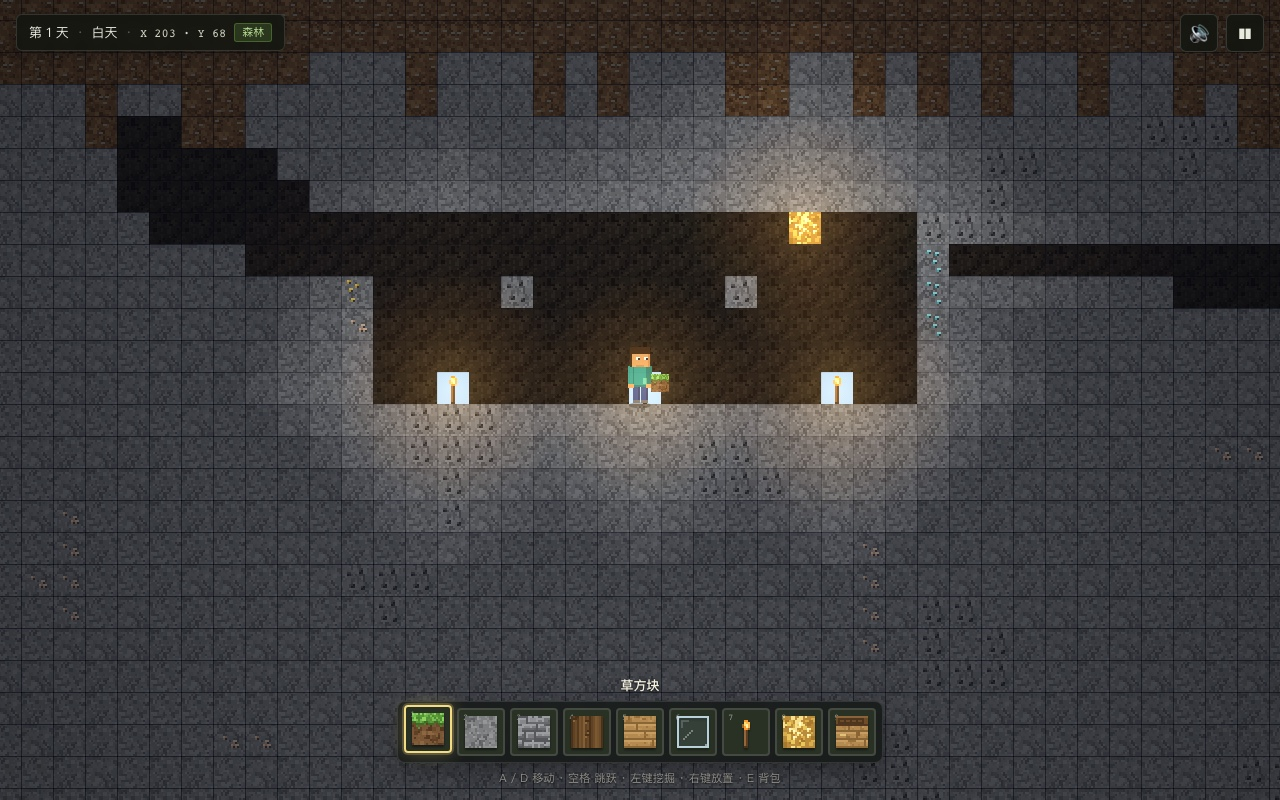
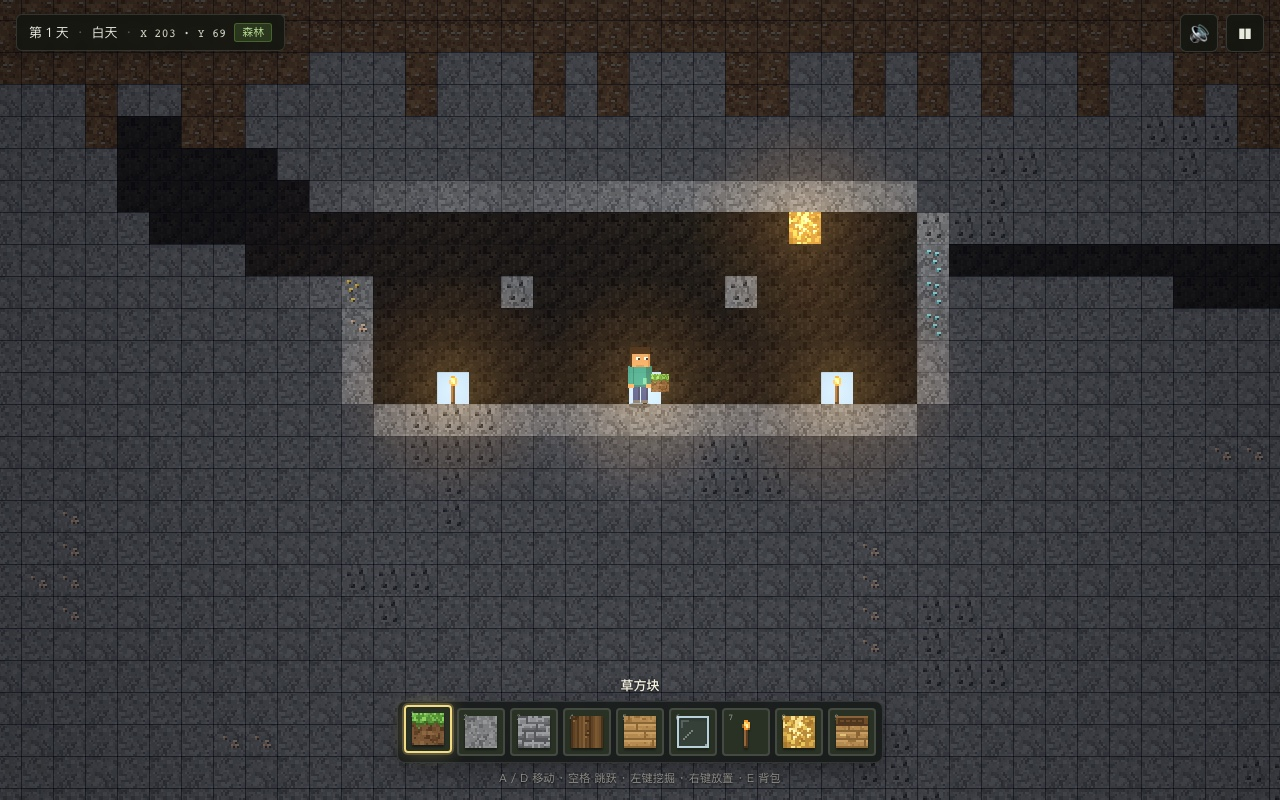
fix: polish lighting, jump audio and save feedback
Keep torch light from leaking through solid walls, play a sound when the
player jumps, show a confirmation toast when saving from the pause menu,
and refresh the README screenshots.

Changed region(s): [[0.2188, 0.3438, 0.8125, 0.6562], [0.4688, 0.0625, 0.8125, 0.3125]]

diff --git a/games/minecraft-2d/js/player.js b/games/minecraft-2d/js/player.js
@@ -89,6 +89,7 @@
       const world = this.world;
       const wasOnGround = this.onGround;
       this.onGround = false;
+      this.justJumped = false;
 
       // 是否在水中
       this.inWater = world.isWater(Math.floor(this.centerX), Math.floor(this.centerY)) ||
@@ -124,7 +125,10 @@
         this.moveAxis(this.vx * dt, 0);
         this.moveAxis(0, this.vy * dt);
         // 靠近水面按跳跃可以跳出来
-        if (this.onGround && input.jump && !this.headInWater) this.vy = JUMP_SPEED * 0.85;
+        if (this.onGround && input.jumpPressed && !this.headInWater) {
+          this.vy = JUMP_SPEED * 0.85;
+          this.justJumped = true;
+        }
       } else {
         const speed = input.sprint ? SPRINT_SPEED : WALK_SPEED;
         this.vx = approach(this.vx, dir * speed, (this.onGround || wasOnGround ? 46 : 20) * dt);
@@ -144,6 +148,7 @@
           this.vy = JUMP_SPEED;
           this.jumpBuffer = 0;
           this.coyote = 0;
+          this.justJumped = true;
         }
         if (!input.jump && this.vy < -4) this.vy = -4;
 

diff --git a/games/minecraft-2d/js/game.js b/games/minecraft-2d/js/game.js
@@ -600,14 +600,6 @@
       this.spawnPlaceParticles(x, y, def);
       this.markDirty();
       this.renderer.shake = 0.6;
-
-      // 连续放置时，光标停留在下方地面就自动往上叠
-      if (this.hovered && BLOCKS[this.world.get(this.hovered.x, this.hovered.y)].solid) {
-        const aboveY = this.hovered.y - 1;
-        if (REPLACEABLE.has(this.world.get(this.hovered.x, aboveY))) {
-          this.hovered.y = aboveY;
-        }
-      }
     }
 
     spawnBreakParticles(x, y, def) {
@@ -699,6 +691,7 @@
       this.player.heldBlock = this.hotbar[this.selected];
       this.player.update(dt, this.input);
       this.input.jumpPressed = false;
+      if (this.player.justJumped) this.audio.play('jump');
 
       this.updateHovered();
       this.updateMining(dt);

diff --git a/games/minecraft-2d/js/ui.js b/games/minecraft-2d/js/ui.js
@@ -58,7 +58,7 @@
       on('inventory-close', () => g.closeInventory());
       on('btn-sound', () => g.toggleMute());
       on('sound-btn2', () => g.toggleMute());
-      on('save-btn', () => g.save(true));
+      on('save-btn', () => g.save(false));
       on('reset-btn', () => this.handleReset());
       on('pause-screen', (e) => {
         if (e.target === this.els.pause) g.resume();

diff --git a/games/minecraft-2d/js/world.js b/games/minecraft-2d/js/world.js
@@ -368,7 +368,8 @@
           const next = level - drop;
           if (next > light[ni]) {
             light[ni] = next;
-            if (next > 1) queue.push(ni);
+            // 实心方块只点亮朝向光源的表面，不让光继续穿墙
+            if (!def.opaque && next > 1) queue.push(ni);
           }
         }
       }
